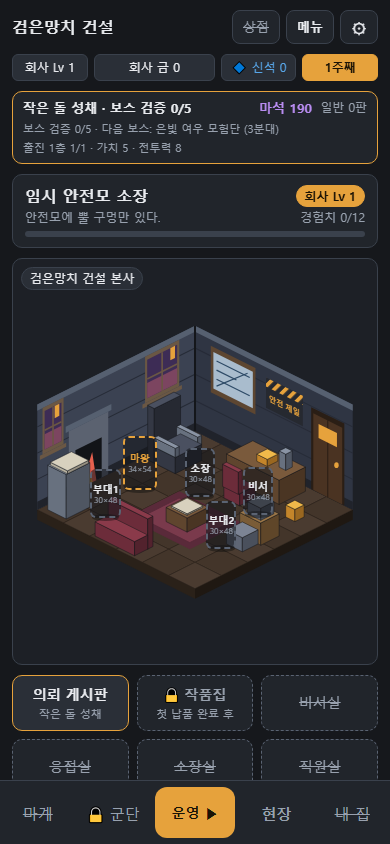
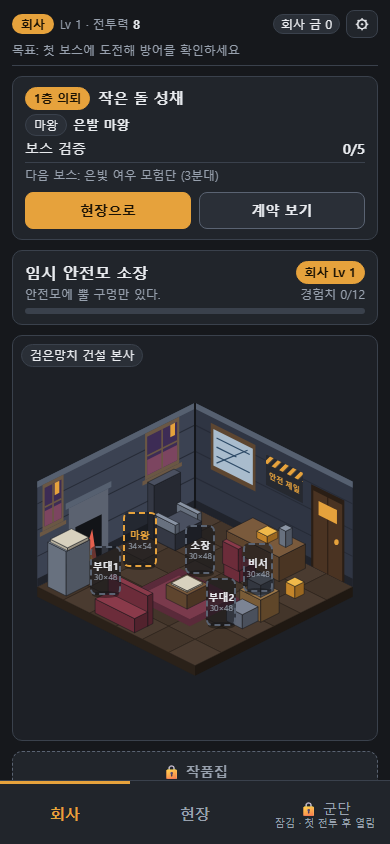
UI 개편 합친 뒤 맞춤: 빨리 감기 배치를 새 마석 경제용으로, 보스 결과 마석 = 보급+첫 성공, D1 기준 사진 갱신(눈으로 확인), PROGRESS 73·HANDOFF

diff --git a/tools/d1_drive.js b/tools/d1_drive.js
@@ -330,12 +330,13 @@ async function d1drive_flow() {
     // 8) [일반 침입 재개] -> 운영 (큰 버튼 = 다음 보스 2단계)
     await b.click('[data-fresume]'); await b.sleep(500);
     need((await scr()) === 'field' && (await b.ev('PROGRESS.flowInfo().mode')) === 'normal' && !(await b.ev('PROGRESS.flowInfo().show')) && (await has('.hud.op')) && (await b.ev('document.querySelector("[data-fboss]").innerText.indexOf("2") >= 0')), '[일반 침입 재개]가 일반 판 운영(보스 2단계 예고)을 안 엶');
-    // 9) API로 빨리 감기: 회사 탭으로 나가(전투 화면 정리) 대기실 3 + 함정 9 + 문 하나(A2-A3 -> C3-D3)를 짓고 보스 2~5단계 (실제 전투 계산). 마지막 결과는 안 닫아 둠
+    // 9) API로 빨리 감기: 회사 탭으로 나가(전투 화면 정리) 대기실 2 + 함정 4(마석 60) + 문 여럿(core-dev 측정 10-29: C6 대기실과 함께 2~5단계 막음)을 짓고 보스 2~5단계 (실제 전투 계산). 마지막 결과는 안 닫아 둠
     await b.click('#tabs [data-go="company"]'); await b.sleep(400);
     need((await scr()) === 'company', '회사 탭으로 못 감');
     const ff = await b.ev(`(function () {
-      var P = PROGRESS, R = P.RUN, base = ZONES.initialDoors(1).map(function (d) { return d === 'A2-A3' ? 'C3-D3' : d; });
-      var c = P.commitLayout({ doors: { 1: base }, builds: { B7: 'den', D7: 'den', C5: 'trap', A7: 'trap', E7: 'trap', A6: 'trap', E6: 'trap', C3: 'trap', C2: 'trap', A5: 'trap', E5: 'trap' } });
+      var P = PROGRESS, R = P.RUN, out_ = ['A4-A5', 'E2-E3', 'C2-C3', 'C3-C4', 'C4-C5', 'C6-C7', 'B5-C5', 'C5-D5', 'A4-B4'];
+      var base = ZONES.initialDoors(1).filter(function (d) { return out_.indexOf(d) < 0; }).concat(['D4-E4', 'B6-C6', 'B3-B4', 'C3-D3', 'A5-B5', 'B3-C3', 'D6-D7', 'D3-D4', 'D4-D5']);
+      var c = P.commitLayout({ doors: { 1: base }, builds: { B3: 'den', A1: 'den', A3: 'trap', B5: 'trap', B6: 'trap', B1: 'trap' } });
       if (!c.ok) return { ok: false, why: '건설 실패: ' + c.msg };
       var out = [];
       for (var k = 0; k < 6 && R.quest.stage < 5; k++) {
@@ -349,7 +350,7 @@ async function d1drive_flow() {
       return { ok: R.quest.stage === 5 && P.checkQuest(), why: '보스 ' + out.join(' · ') + ' / ' + P.questProgress().line, line: P.questProgress().line, list: out.join(' · ') };
     })()`);
     if (!need(ff && ff.ok, '빨리 감기 실패: ' + (ff && ff.why))) return fin();
-    step('API로 배치(대기실 3 + 함정 9 + 문 1) -> 보스 ' + ff.list + ' (' + ff.line + ')');
+    step('API로 배치(대기실 2 + 함정 4 + 문 여럿) -> 보스 ' + ff.list + ' (' + ff.line + ')');
     // 10) 회사는 안내만 -> 현장 5/5 결과의 [납품]
     await b.reload(500); await d1drive_page(b);
     await b.ev('location.hash = "#company"'); await b.sleep(400);

diff --git a/prototype/d1_demo/battle.js b/prototype/d1_demo/battle.js
@@ -91,7 +91,7 @@
       var panel = div('fld-panel',
         '<h3 class="' + (ok ? 'ok' : 'bad') + '">' + (ok ? '보스 격퇴! 보스 검증 ' + b.stageAfter + '/' + b.total : '보스 실패: ' + b.reached + '/' + b.squads + '분대가 보물방 도달') + '</h3>' +
         '<div class="dim small-text bt-ressub">보스 ' + b.stage + '단계 · ' + esc(b.name) + ' · ' + b.tries + '번째 도전 · ' + b.time + '초</div>' +
-        (b.reward ? '<div class="bt-lv">첫 성공 보상: 마석 +' + b.reward + '</div>' : '') +
+        (b.reward || b.supply ? '<div class="bt-lv">마석 +' + ((b.supply || 0) + (b.reward || 0)) + ' (의뢰인 보급 ' + (b.supply || 0) + ' · 첫 성공 ' + (b.reward || 0) + ')</div>' : '') +
         '<div class="rsum">보물방 도달 ' + b.reached + '/' + b.squads + ' · 함정 피해 ' + b.trapDmg + ' · 퇴각 원인 ' + esc(causes) + '</div>' +
         (ok ? '' : '<div class="small-text dim">잃는 것은 없어요. 문·시설을 바꾸고 다시 도전해 보세요 (같은 배치 = 같은 결과)</div>') +
         '<div class="bt-sub">분대별 기록 (눌러서 펼치기 · 판에 끝 방 표시)</div>' + rowsHtml);

diff --git a/HANDOFF.md b/HANDOFF.md
@@ -2,7 +2,7 @@
 
 > 150줄 안으로. 큰 작업이 끝나면 통째로 덮어쓰기.
 
-마지막 갱신: 2026-10-28. 시설 강화 화면 합침(PROGRESS 71) → Dungeon Sisters(DS) 6탭 분석 → Codex 토론 2라운드 → **방향 전환 확정** → **흐름 시험 합침(PROGRESS 72)** → **UI 개편 기획서 초안**(`docs/specs/ui_restructure.md`, 사용자 결정 전)
+마지막 갱신: 2026-10-29. 흐름 시험(PROGRESS 72) → UI 개편 기획서 확정 → **UI 개편 + 마석 경제 합침(PROGRESS 73)**
 
 ## ⚠ 방향 전환 (10-28 사용자 확정) — 가장 먼저 읽을 것
 - 기준 문서: `refs/debate_ds_restructure_2026-10-28.md` **"최종 수렴" 1~6 (모두 추천대로 확정)**. 참고 게임 분석 `refs/ref_dungeon_sisters.md`.
@@ -11,33 +11,36 @@
 - **낡은 문서**(흐름이 굳은 뒤 한꺼번에 고침, 그 전엔 위 토론 문서가 우선): `docs/FEATURES.md` 구현 대기열, `docs/specs/dungeon_cards.md`(모든 전투 카드), `docs/GAME_STRUCTURE.md`(5탭), 아래 "옛 기록" 표의 [다음 주] 관련 내용.
 
 ## 이어하기
-1. `git pull` → `py tools/check_all.py` (**15개** 통과, 약 55초. **Node 22 이상 필요** — 없으면 D1 검사가 "건너뜀"으로 통과해 버림)
-2. **UI 개편 구현 시작 여부를 사용자에게 확인** (아래 "받은 결정")
+1. `git pull` → `py tools/check_all.py` (**15개** 통과, 약 75초. **Node 22 이상 필요** — 없으면 D1 검사가 "건너뜀"으로 통과해 버림)
+2. **사용자에게 받을 것**: 새 화면 플레이 소감 + 아래 "기다리는 결정" C
 3. 해 보기: PC는 `prototype/d1_demo/index.html` **더블클릭**으로 충분(서버 필요 없음, 외부 파일 안 불러옴). Chrome F12 → Ctrl+Shift+M 으로 폰 크기. 폰은 `py -m http.server 8000 --bind 0.0.0.0` → 같은 와이파이에서 `http://<PC IP>:8000/prototype/d1_demo/index.html`(방화벽 허용). GitHub Pages는 저장소 공개 여부를 사용자가 정해야 해서 보류.
 
 ## 받은 결정 (10-29 사용자)
-| # | 무엇 | 결정 |
+- A 흐름 시험 소감: "나쁘지 않지만 전체 시스템이 안 정해져 특별한 점은 아직 못 느낌" → 큰 틀 먼저 계속.
+- B UI 개편 기획서: ①~⑤ A안 + ⑥ 건설 확정 = 진행 중 일반 판 버리고 바로 새 배치 → 구현·합침(PROGRESS 73).
+
+## 기다리는 결정 (사용자)
+| # | 무엇 | 총괄 추천 |
 | --- | --- | --- |
-| A | 흐름 시험 플레이 소감 | "나쁘지 않지만 전체 시스템이 안 정해져 특별한 점은 아직 못 느낌" → 막히는 문제 없음, **큰 틀 먼저 계속**. 시작 마석·보스 표는 아직 그대로 |
-| B | UI 개편 기획서 | **①~⑤ 모두 A안 + ⑥ 건설 확정 때 진행 중 일반 판은 버리고 바로 새 배치** → `docs/specs/ui_restructure.md` 확정본으로 고침 |
-- 다음: ⑥ 덕분에 "저장·경제" 단계의 수정안 보관 로직이 필요 없어짐 → 남은 경제(마석 = 시작 + 단계별 보급 + 보스 첫 성공)는 UI 개편의 `core-dev` 몫에 합침(총괄 제안, 사용자 확인 필요). 구현은 `frontend`(화면) + `core-dev`(로직) 파일 나눠. 끝 기준 = 기획서 9절.
+| C | **문만 옮겨 길을 길게 만들면 4·5단계 보스가 시설 없이(마석 0) 시간 초과 60초로 막힘** → 문 퍼즐이 "길 늘리기"만으로 풀릴 위험. 보스전 시간 초과를 성공으로 칠지·문 통과 한도 등 규칙 필요 | 폰으로 새 화면을 해 본 뒤 정함. 후보: 보스전은 시간 초과 = 실패(또는 무승부, 보스는 끝까지 걷기) |
 
 ## D1 데모 지금 상태 (`prototype/d1_demo/`, 저장 키 `dunguen_d1_run`, 저장 v7 + `flow` 칸)
 | 부분 | 상태 |
 | --- | --- |
-| 흐름 시험 (PROGRESS 72, API.md 15절) | **켜져 있음**. `BATTLE_DATA.FLOW.on = false`면 옛 주 단위 규칙·화면으로 돌아감. 일반 판: 판 번호 시드, 1.5초 뒤 자동 반복, 카드·결과표 없음, 보상 금·신석만(경험치·마석 보급·쉼 끔). 건설·강화·출진 확정 = 진행 중 일반 판 버리고 새 배치. [보스 도전] = 일반 판 끊고 단계별 고정 시드 보스(`BATTLE_DATA.BOSSES`), 보물방 도달 0이면 성공(첫 성공만 마석 +30 임시), 실패 결과 창 = 분대별 경로·함정 피해·퇴각 원인 + [배치 고치기][다시 도전][일반 침입 재개]. 5단계 성공 → 납품. 튜토리얼 꺼짐. `flow` 없는 옛 v7 = 단계 0, 진행 전투 버림 |
+| 흐름 시험 (PROGRESS 72, API.md 15절) | **켜져 있음**. `BATTLE_DATA.FLOW.on = false`면 옛 주 단위 규칙(로직만, 화면은 UI 개편 때 지움). 일반 판: 판 번호 시드, 1.5초 뒤 자동 반복, 카드·결과표 없음, 보상 금·신석만(경험치·마석 보급·쉼 끔). 건설·강화·출진 확정 = 진행 중 일반 판 버리고 새 배치. [보스 도전] = 일반 판 끊고 단계별 고정 시드 보스(`BATTLE_DATA.BOSSES`), 보물방 도달 0이면 성공(첫 성공만 마석, 아래 경제), 실패 결과 창 = 분대별 경로·함정 피해·퇴각 원인 + [배치 고치기][다시 도전][일반 침입 재개]. 5단계 성공 → 납품. 튜토리얼 꺼짐. `flow` 없는 옛 v7 = 단계 0, 진행 전투 버림 |
 | 보스 측정 | 문 하나 옮기기(확정 가능 318가지) 전수: 대기실 하나 판 1단계 21가지 성공, 대기실+함정 7 판 1→5단계 271·260·100·3·0. 빈 판은 금 약탈로 금 0 |
-| 화면 | **임시**(흐름 시험용): 아래 버튼 5개라 좁음, 위 "1주째" 글 남음, 의뢰 고르면 정비 화면부터 → UI 개편에서 다시 만듦 |
+| 화면 (PROGRESS 73) | **UI 개편 끝**: 하단 3탭(회사·현장·군단, 군단은 첫 전투 후 열림) + 현장 4상태(운영·건설·보스 도전·보스 결과) + 공통 상단 바·보스 검증 막대·다음 목표 한 줄. 출진·조달·보충은 현장 [출진] 창, 강화는 시설 누르기, [납품]은 현장 5/5만. 마계·내 집·준비 중 입구·카드는 숨김. 옛 주 단위 화면 코드는 지움(로직은 남음) |
 | 시설 강화 (PROGRESS 70·71) | 현장에서 지은 시설 누르기 → 강화 창. 함정 피해 6·7·8, 대기실 전투 체력 ×1·1.05·1.10, 비용 10→20, 교체 때 환급(지금은 교체가 막혀 거의 안 뜸). 같은 마석이면 강화가 손해(밸런스 나중) |
 | 판·전투 | q1 = 판 `g1` 5×7, 33방, 고정 구역 FZ1, 입구 C1 · 보물방 C7, 문 35개. 조우 즉시 승패, 침입자 체력 절반 아래 퇴각, 사망 없음. 1칸 2초, 문 통과 한도 30, 1층 60초 |
-| 의뢰 | q1만(q2 `hidden`). 시작 마석 200(시험) |
-| 계약서 | `API.md` 13(판·문·전투)·14(강화)·15(흐름 시험)절 |
+| 의뢰·경제 (API 16절) | q1만(q2 `hidden`). 마석 = 시작 50 + 보스 첫 성공 때 의뢰인 보급 10(1~4단계) + 첫 성공 10. 보스 힘 1·1.5·2·3·3. n단계 도전 때 마석 50·70·90·110·130. **4·5단계는 문을 옮겨야 막힘**(시설만 20시드 중 1, 문+시설 19 납품). 모두 임시 |
+| 계약서 | `API.md` 13(판·문·전투)·14(강화)·15(흐름 시험)·16(마석 경제)절 |
 
 ## 알려진 문제
 | # | 문제 |
 | --- | --- |
 | 1 | 대기실이 너무 셈(부대 힘 약 2400 vs 침입자 분대 약 140). 보스 표로 일부 보완 |
-| 2 | 마석 200이면 1~4단계 보스가 함정만으로 막혀 문 퍼즐이 묻힘 (결정 A) |
+| 2 | 문만으로 길 늘리기 = 보스 시간 초과 성공 (결정 C) |
+| 6 | 화면: 5/5 결과 창을 닫으면 결과 창은 안 돌아오고 운영에 큰 [납품]만 · 회사 화면이 길어 작품집은 스크롤 · 출진 창 열면 판이 약 250px · 대기실 없으면 전투력 0 · `bossInfo().why`에 "홈에서 납품" 옛 문구 · 빨리 감기에 쓰는 화면 우회 `setBattle(false)`(canEdit 바꾸면 같이 볼 것) |
 | 3 | 한도 검사는 고정 경로 12개만 봄 → 실제 경로는 30회를 넘을 수 있음 |
 | 4 | 자동 편성: 친위대가 혼자 다른 대기실로 갈 수 있음 |
 | 5 | DS 상점 분석에서 본 교훈: 출시 전 용어 통일 점검(금·마석·신석 이름 등) |

diff --git a/PROGRESS.md b/PROGRESS.md
@@ -146,3 +146,5 @@
 71. 시설 강화 2단계 화면 (frontend, 2026-10-28). 왜: 확정 기획서 `docs/specs/facility_upgrade.md` 5절 + 사용자 메모 1(현장에서 지은 시설을 누르면 강화). 지시서 `refs/brief_upgrade_ui.md`. 고친 파일 `prototype/d1_demo/` shell.js(현장 기본 화면에서 함정·대기실을 누르면 [출진][건설] 줄 자리에 강화 창: 효과 전후·비용·남을 마석·전투력 전후, 대기실은 출진 부대와 "이 방에서만 적용", 거절 이유는 버튼 옆, [강화] 뒤 600ms 잠금으로 연타 중복 없음, [닫기]·바깥 누르기 무변경, 빈 방·입구·보물방·고정 구역은 토스트만) · build.js(판에 강화 단계 +1·+2와 실제 피해, 건설 합계 줄 "강화 사라짐 N곳 · 환급 +N", 건설 모드에서는 창 안 뜸) · shell.css(`.upsheet`). 로직 파일 무변경. 확인: 헤드리스 390×844 터치·667 높이·1280 마우스로 짓기→누르기→강화→닫기→다음 주 전투(`up` 입력 들어감), 연타 1단계만, 최고 단계·마석 부족 흐림+이유, 튜토리얼 말풍선과 안 겹침, 콘솔 오류·가로 넘침 0, 총괄이 창 사진 3장 눈으로 확인, check_all 15개 통과(D1 기준 사진 그대로). 남은 것: 지은 구역 교체가 막혀 있어 환급 표시는 지금 거의 안 뜸, 검사 도구에 강화 누르기 넣기(제안).
 
 72. 흐름 시험: 일반 침입 자동 반복 + 보스 도전 (core-dev, 2026-10-28). 왜: 사용자 확정 방향 전환(`refs/debate_ds_restructure_2026-10-28.md` 최종 수렴 1~6, DS 기반 "탑 등반형 방치 + 보스") 손맛 시험. 지시서 `refs/brief_flow_test.md`. 고친 파일 `prototype/d1_demo/` progress.js·battle_data.js(`FLOW.on` 켜고 끄기, 단계별 보스 표 `BOSSES` + 측정표 주석)·battle_sim.js·battle.js·shell.js·shell.css·API.md 15절, `tools/` test_d1_core.py(1~15절은 FLOW 끄고, 16절 새 흐름)·test_d1_flow.py·d1_drive.js(새 흐름 한 바퀴)·test_oldsaves.py(D1 v6 검사 한 줄: 흐름이면 "일반 1판 진행")·shots/d1 기준 6장. 규칙: 일반 판은 판 번호 시드로 1.5초 뒤 자동 반복, 카드·결과표 없음, 보상 금·신석만(경험치·마석 보급·쉼 끔). 건설·강화·출진 확정 = 지금 일반 판 버리고 새 배치로 다음 판. [보스 도전] = 일반 판 끊고 고정 시드 보스, 보물방 도달 0이면 단계 +1(첫 성공만 마석 +30 임시), 실패는 분대별 경로·함정 피해·퇴각 원인 + [배치 고치기][다시 도전][일반 침입 재개]. 5단계 성공 → 납품. 저장 v7 + `flow` 칸(없으면 단계 0, 진행 전투 버림). 측정: 문 하나 옮기기 확정 가능 318가지 전수 — 대기실 하나 판 1단계 21가지 성공, 대기실+함정 7 판 1→5단계 271·260·100·3·0. 마석 200이면 1~4단계는 함정만으로도 막힘(문 퍼즐 필수는 5단계·적은 마석일 때). 확인: 헤드리스 390 일반 3판 → 보스 실패 → 문 끌기 → 성공 → 납품 → 데모 끝, 같은 배치 같은 결과, 새로고침 보상 중복 없음, 콘솔 오류 0, 총괄이 사진 확인, check_all 15개 통과. 남은 것: 시작 마석·보스 표 재검토(폰 플레이 뒤), 임시 화면(아래 버튼 5개·"1주째" 글·의뢰 고른 뒤 정비 화면부터).
+
+73. UI 개편 + 마석 경제 (frontend·core-dev 병렬, 총괄 합침, 2026-10-29). 왜: 사용자 확정 기획서 `docs/specs/ui_restructure.md`(①~⑤ A안, ⑥ 건설 확정 = 진행 중 일반 판 버리고 바로 새 배치) + 사용자 소감 "특별한 점을 못 느낌"의 유력한 원인(마석 200이면 문 퍼즐이 할 일 없음). 지시서 `refs/brief_ui_restructure_ui.md`·`refs/brief_ui_restructure_core.md`. 화면(frontend) `prototype/d1_demo/` shell.js·battle.js(현장 = `SCREEN_PLUGINS.field`, 4상태 운영·건설·보스 도전·보스 결과)·build.js(판 크게, 미확정 이동 묻기)·lines.js·shell.css: 하단 3탭(회사·현장·군단), 공통 상단 바·보스 검증 막대·다음 목표, 출진 창(조달·보충 옮김), 군단 부족·친위대 2열 카드, [납품]은 현장 5/5만, 데모에 없는 입구 숨김, 현장 밖이면 일반전 멈춤. 경제(core-dev) battle_data.js·progress.js·API.md 16절·test_d1_core 17절: 시작 마석 200 -> 50, 보스 첫 성공 때 의뢰인 보급 10(1~4단계) + 첫 성공 10, 보스 힘 1·1.5·2·3·3. 측정(언덕 오르기, 표는 battle_data BOSSES 주석 "2차"): 시설만으로 막는 최소 마석 20·40·60·150~160·260으로도 못 막음 vs 도전 때 마석 50·70·90·110·130 → 4·5단계는 문을 옮겨야 막힘, 의뢰 통째 20시드 문+시설 19 납품·시설만 1. 총괄: d1_drive.js 빨리 감기 배치를 새 경제용(대기실 2 + 함정 4 + 문 여럿, core-dev 측정)으로, 보스 결과 마석 문구를 보급+첫 성공으로. 확인: 총괄이 새 사진 6장 눈으로 보고 shots D1 기준 갱신, check_all 15개 통과. 남은 것: 문만으로 길을 늘리면 4·5단계가 시간 초과로 막힘(결정 C), HANDOFF 알려진 문제 6.
